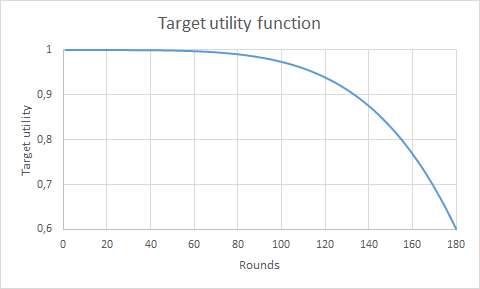
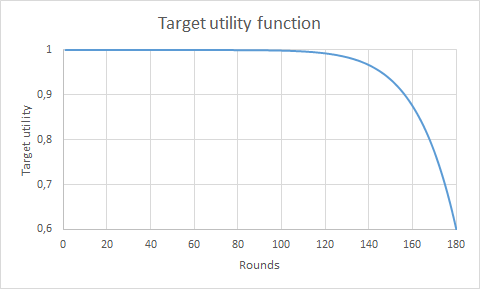
Updated targetUtilFunction png and chanhed > to <

diff --git a/src/negotiator/groupFredriksenJahren/GroupFredriksenJahren.java b/src/negotiator/groupFredriksenJahren/GroupFredriksenJahren.java
@@ -177,7 +177,7 @@ public class GroupFredriksenJahren extends AbstractNegotiationParty {
 				}
 			}
 
-			if(acceptableBids.size() == 0 || 1 - Math.pow(timeline.getCurrentTime()/timeline.getTotalTime(), 2) > Math.random()) return maxBid;
+			if(acceptableBids.size() == 0 || 1 - Math.pow(timeline.getCurrentTime()/timeline.getTotalTime(), 2) < Math.random()) return maxBid;
 			else return acceptableBids.get((int) (Math.random() * acceptableBids.size()));
 		}
     }
